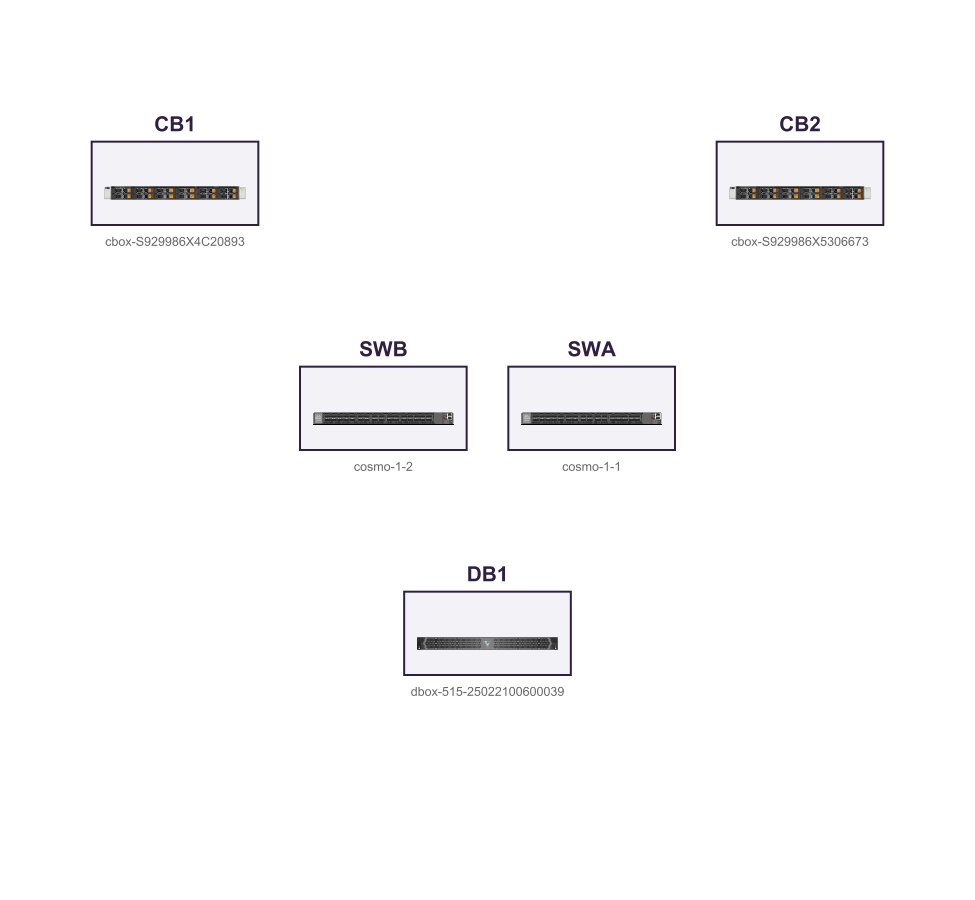
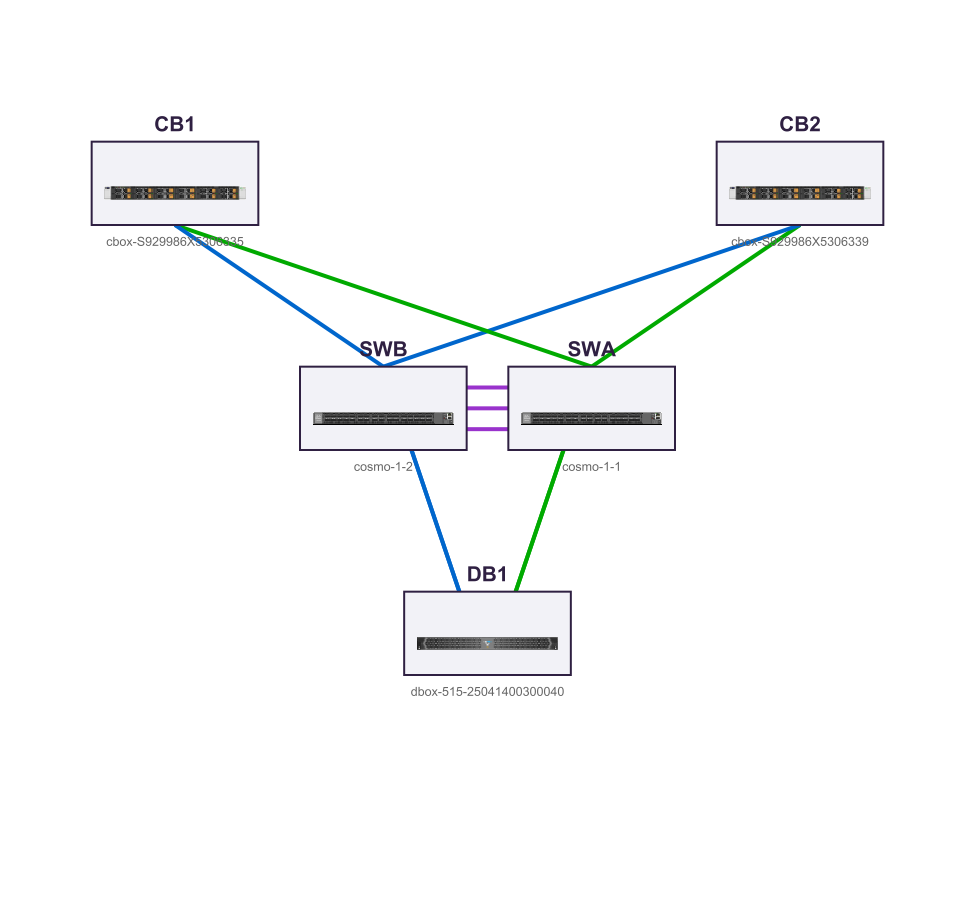
On branch develop  Your branch is up to date with 'origin/develop'.
Changes to be committed:
	new file:   RELEASE_v1.2.0_COMMANDS.md
	modified:   output/diagrams/network_topology.pdf
	modified:   output/diagrams/network_topology.png

diff --git a/RELEASE_v1.2.0_COMMANDS.md b/RELEASE_v1.2.0_COMMANDS.md
@@ -1,0 +1,114 @@
+# Release v1.2.0 - Commands to Execute
+
+## Step 1: Push develop branch to GitHub
+```bash
+cd /Users/ray.stamps/Documents/as-built-report/ps-deploy-report
+git push origin develop
+```
+
+## Step 2: Checkout main branch and merge develop
+```bash
+git checkout main
+git pull origin main
+git merge develop --no-ff -m "Merge develop into main for v1.2.0 release"
+```
+
+## Step 3: Create and push v1.2.0 tag
+```bash
+git tag -a v1.2.0 -m "Release v1.2.0 - Capacity Base 10 Display Feature
+
+Major Features:
+- Added Capacity-Base 10 row to Cluster Overview table (Page 4)
+- Dynamic TB/TiB units in Storage Capacity table based on cluster setting
+- Improved port mapping accuracy for DNodes on Network B
+- Enhanced watermark rendering
+- Fixed IPL connection display in port mapping tables
+
+API Changes:
+- Added capacity_base_10 field collection from VMS API endpoint
+- Fallback query to VMS when clusters endpoint missing capacity_base_10
+
+Bug Fixes:
+- Fixed MAC address collection for interfaces with SR-IOV virtual functions
+- Fixed DNode Network B port mapping on Switch 2
+- Corrected IPL connection deduplication in network diagrams
+- Fixed watermark sizing to fit within page boundaries
+
+Data Flow:
+- API Handler -> Data Extractor -> Report Builder
+- VMS endpoint query for capacity_base_10 configuration
+- Dynamic unit display (TB vs TiB) based on setting"
+
+git push origin v1.2.0
+git push origin main
+```
+
+## Step 4: Create GitHub Release
+Go to GitHub repository and create a new release:
+- Tag: `v1.2.0`
+- Title: `v1.2.0 - Capacity Base 10 Display & Enhanced Port Mapping`
+- Description: Use the tag message content above
+
+## Step 5: Switch back to develop branch
+```bash
+git checkout develop
+```
+
+## Summary of Changes in v1.2.0
+
+### New Features
+1. **Capacity-Base 10 Display**
+   - Added "Capacity-Base 10" row to Cluster Overview table showing True/False
+   - Storage Capacity table dynamically displays TB (base 10) or TiB (base 2)
+   - Applied to all capacity metrics: usable, physical, and logical space
+
+2. **Enhanced Port Mapping**
+   - Improved DNode Network B MAC address collection
+   - Fixed VLAN 69 interface handling
+   - Corrected SR-IOV virtual function MAC filtering
+
+3. **Network Diagram Improvements**
+   - Fixed IPL connection display (4 connections, not 8)
+   - Improved DNode to Switch 2 connection rendering
+   - Corrected switch-based network assignment logic
+
+4. **Watermark Enhancements**
+   - Re-implemented watermark rendering on all pages except title
+   - Fixed watermark sizing to fit within page boundaries
+   - Maintained aspect ratio and positioning
+
+### Bug Fixes
+- Fixed MAC address parser to capture first physical MAC only
+- Corrected network assignment to be switch-based (not interface-based)
+- Fixed IPL deduplication in network topology diagrams
+- Resolved DNode connections missing from Switch 2 port mapping
+
+### Technical Improvements
+- VMS endpoint fallback for capacity_base_10 collection
+- Enhanced data flow: API Handler → Data Extractor → Report Builder
+- Improved MAC table parsing for VLAN subinterfaces
+- Better handling of SR-IOV virtual functions
+
+### Commits Included (20 total)
+- e6dd1d3: Simplify Capacity-Base 10 display to True/False
+- 7a2496a: Include capacity_base_10 in get_all_data() serialization
+- 3f74ff4: Query VMS endpoint for capacity_base_10 fallback
+- 82e56f4: Add Capacity-Base 10 feature with dynamic units
+- 9b7d27b: Fix MAC collection for SR-IOV interfaces
+- 22727c6: Add VLAN 69-specific MAC table collection
+- 3f3436b: Adjust watermark to fit page width
+- 71ca2db: Re-add watermark rendering
+- bfb04ec: Add IPL connections to Switch 2 table
+- ... and 11 more commits
+
+### Testing
+Tested on clusters:
+- 10.143.15.203 (tmphx-203): capacity_base_10 = False → TiB units ✓
+- 10.143.15.204 (tmphx-204): capacity_base_10 = False → TiB units ✓
+
+Both clusters generated successfully with:
+- Port mapping tables (Switch 1 & 2)
+- Network topology diagrams
+- IPL connections
+- Capacity-Base 10 row display
+- Dynamic capacity units
